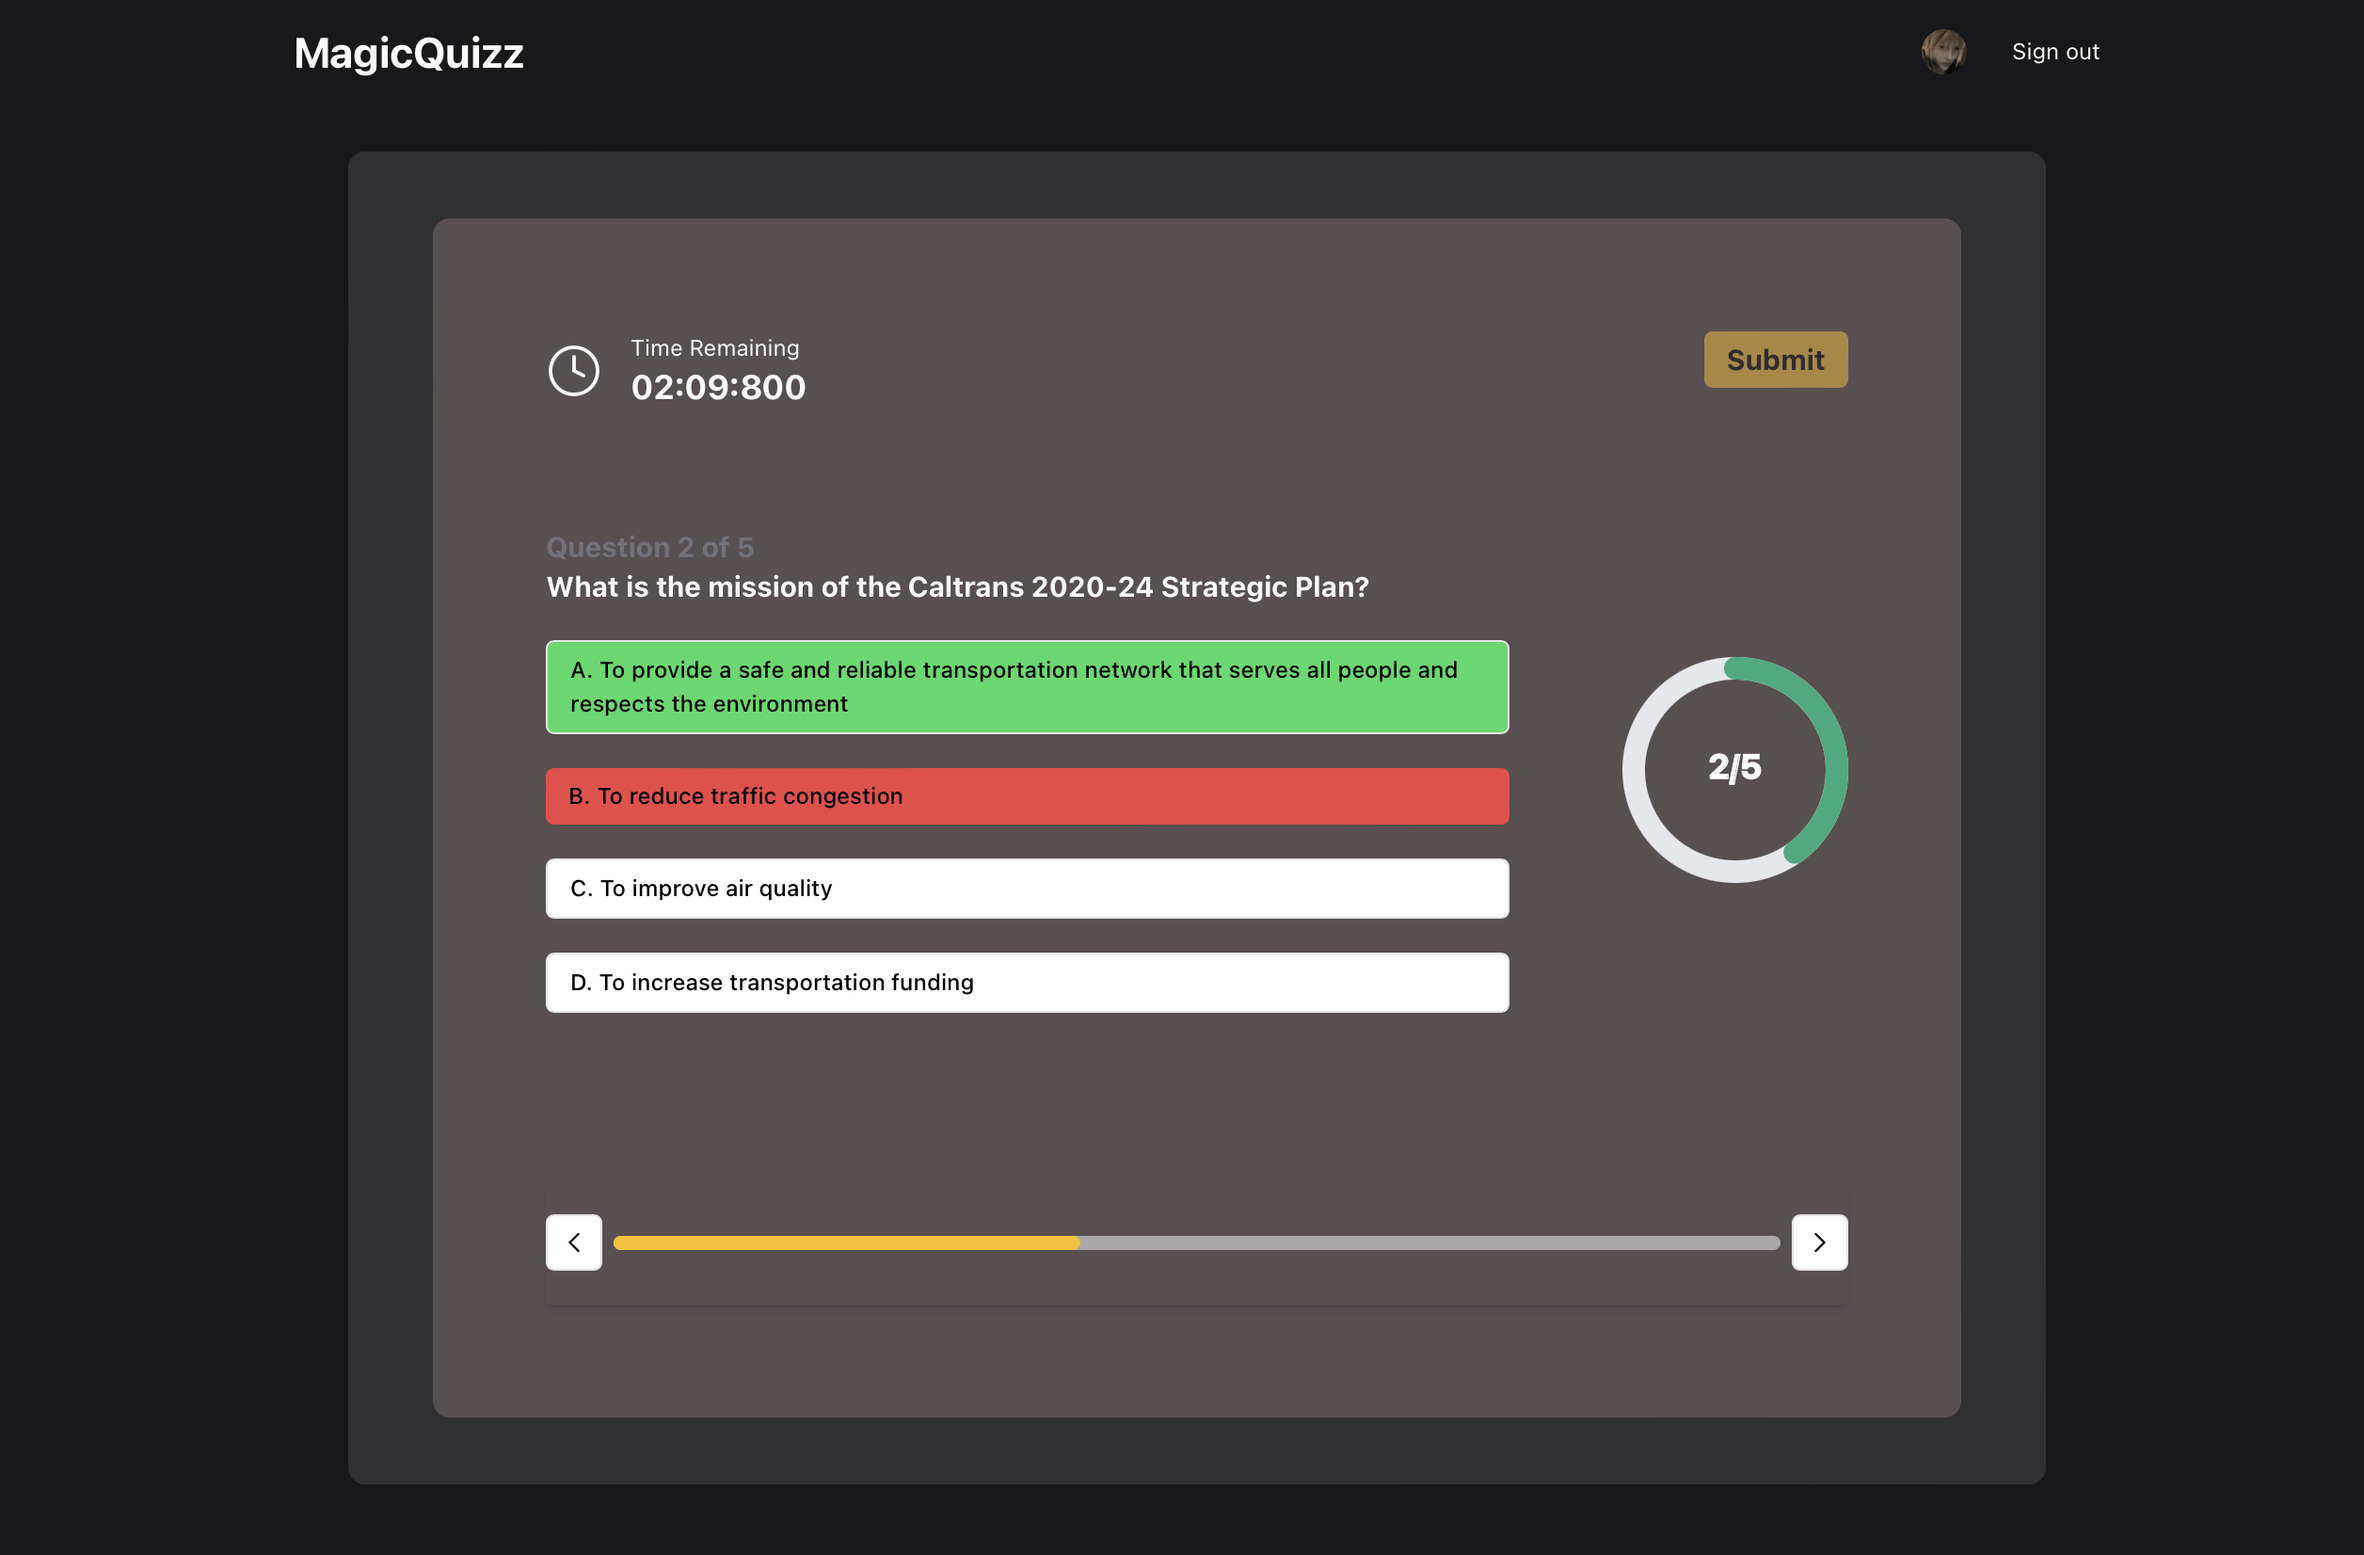
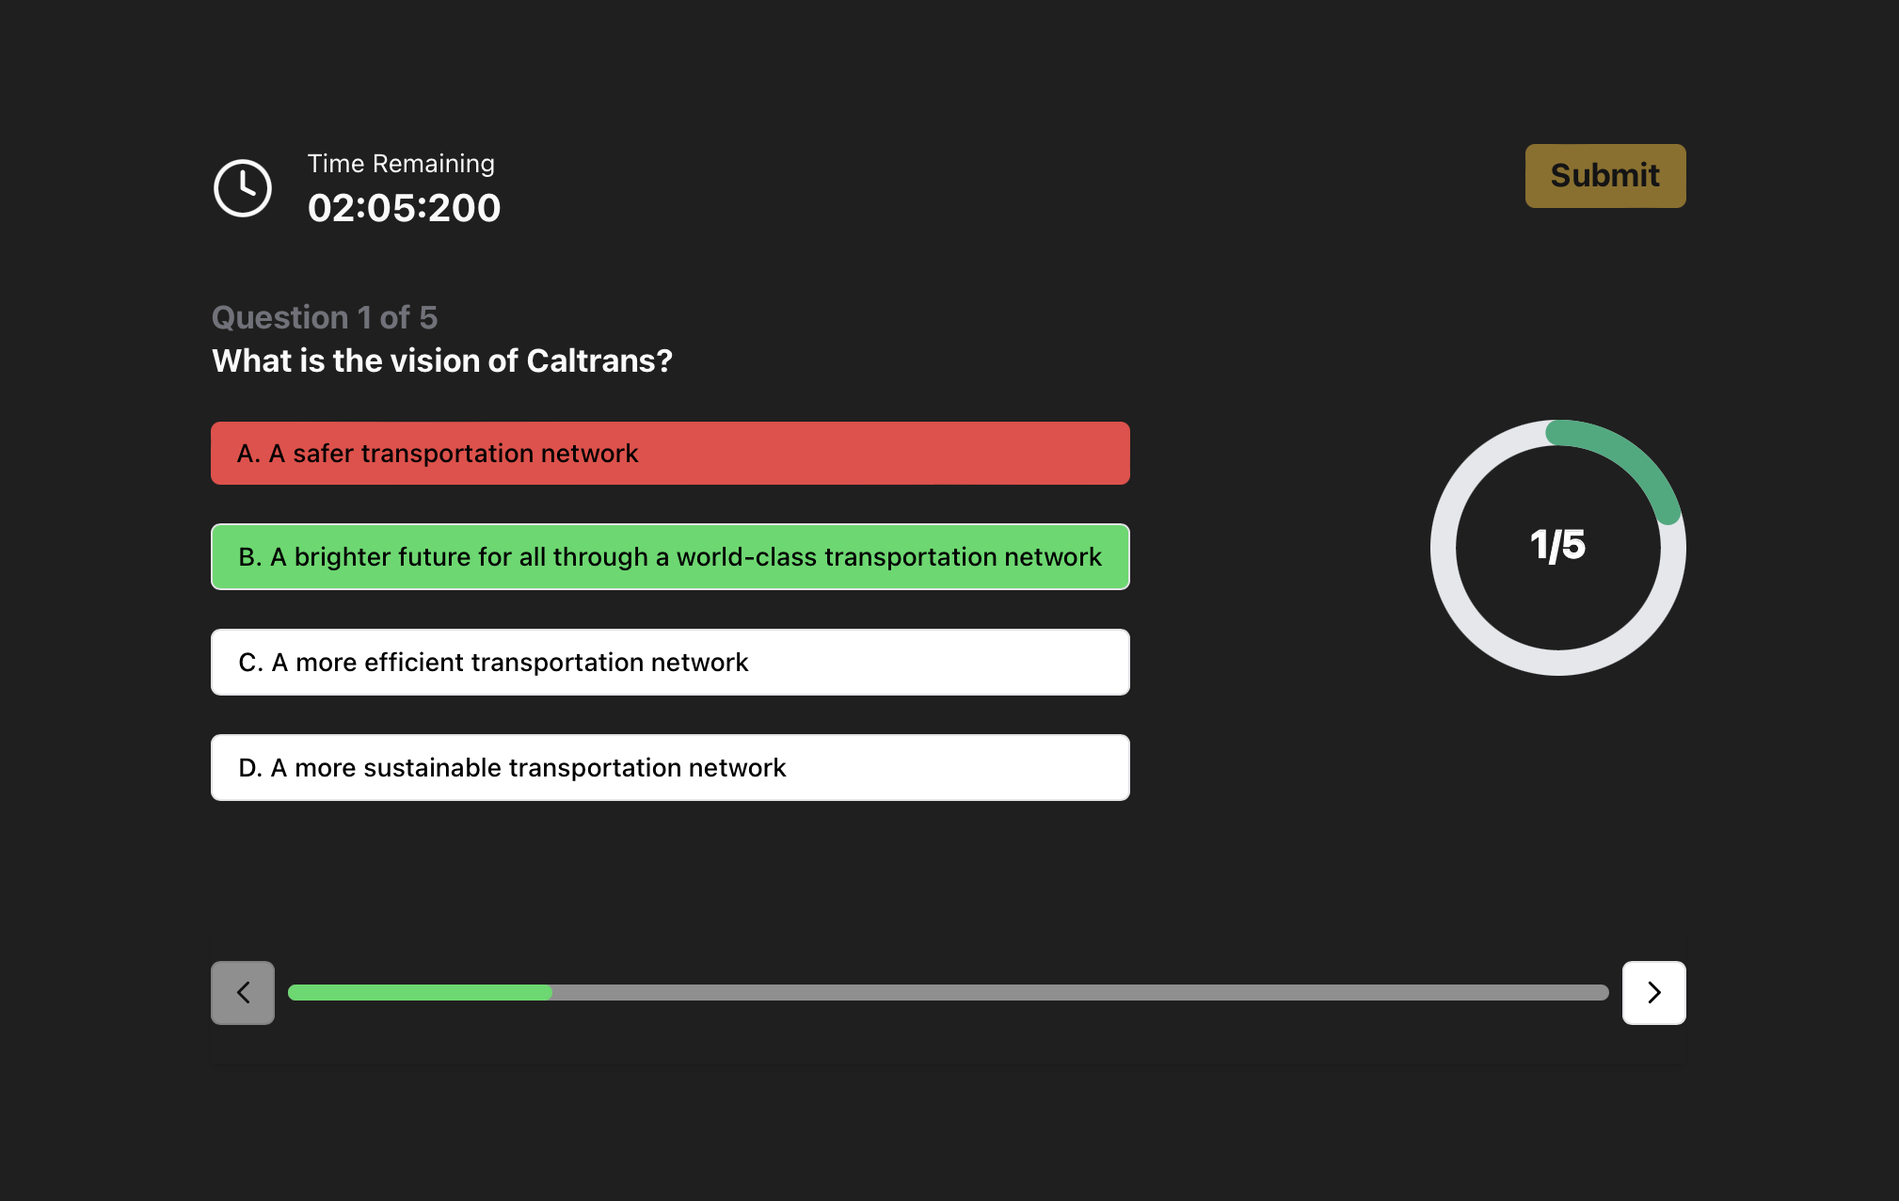
feat: Update UI

diff --git a/src/app/quizz/QuizzQuestions.tsx b/src/app/quizz/QuizzQuestions.tsx
@@ -14,6 +14,7 @@ import { saveSubmission } from "@/actions/saveSubmissions";
 import { useRouter } from "next/navigation";
 import { cn } from "@/lib/utils";
 import CircularProgressBar from "@/components/CircularProgressBar";
+import ComponentSpinner from "@/components/ComponentSpinner";
 
 const questionIndex = ["A.", "B.", "C.", "D."];
 
@@ -37,6 +38,7 @@ export default function QuizzQuestions(props: Props) {
   const [remainingTime, setRemainingTime] = useState(
     questions.length * 30 * 1000
   );
+  const [isSubmitting, setIsSubmitting] = useState<boolean>(false);
   const router = useRouter();
 
   // Convert remaining time to hh:mm:ss format
@@ -110,11 +112,12 @@ export default function QuizzQuestions(props: Props) {
 
   const handleSubmit = async () => {
     try {
-      const subId = await saveSubmission({ score }, props.quizz.id);
+      setIsSubmitting(true);
+      await saveSubmission({ score }, props.quizz.id);
     } catch (e) {
       console.log(e);
     }
-
+    setIsSubmitting(false);
     setSubmitted(true);
   };
 
@@ -138,9 +141,9 @@ export default function QuizzQuestions(props: Props) {
   }
 
   return (
-    <div className="flex flex-col bg-white/10 rounded-xl h-[90%] w-[90%] m-auto">
-      <div className="w-[90%] h-[90%] p-20 m-auto rounded-xl bg-red-200/20 flex flex-col justify-center">
-        <div className="flex justify-between">
+    <div className="flex flex-col bg-transparent/40 rounded-xl w-full m-auto">
+      <div className="w-[90%] h-[90%] p-20 m-auto rounded-xl flex flex-col gap-4 justify-center">
+        <div className="flex flex-col-reverse sm:flex-row justify-between gap-2">
           <div className="flex items-center gap-5">
             <Clock
               height={40}
@@ -151,16 +154,18 @@ export default function QuizzQuestions(props: Props) {
               <p className="text-2xl font-bold">{formattedTime}</p>
             </div>
           </div>
-          <Button
-            variant="secondary"
-            onClick={handleSubmit}
-            disabled={!quizzCompletedCheck}
-            className="font-bold text-xl"
-          >
-            Submit
-          </Button>
+          {started && (
+            <Button
+              variant="secondary"
+              onClick={handleSubmit}
+              disabled={isSubmitting || !quizzCompletedCheck}
+              className="font-bold text-xl"
+            >
+              {isSubmitting ? <ComponentSpinner /> : "Submit"}
+            </Button>
+          )}
         </div>
-        <main className="flex justify-center items-center flex-1 py-10">
+        <main className="flex justify-center items-center flex-1 py-5">
           {!started && (
             <div className="text-center">
               <h1 className="text-2xl font-bold mb-2">{name}</h1>
@@ -224,7 +229,7 @@ export default function QuizzQuestions(props: Props) {
             </div>
           )}
         </main>
-        <div className="footer pb-9 px-6 relative mb-0">
+        <div className="footer pb-4 relative">
           {!started && (
             <div className="w-full flex justify-center">
               <Button

diff --git a/src/components/containers/HomeContainer/components/Guide.tsx b/src/components/containers/HomeContainer/components/Guide.tsx
@@ -1,16 +1,30 @@
 import { Separator } from "@/components/ui/separator";
+import Image from "next/image";
 import React from "react";
 
 type IStepComponentProps = {
   stepCount: number;
   title: string;
   desc: string;
+  img: string;
 };
-const StepComponent = ({ stepCount, title, desc }: IStepComponentProps) => {
+const StepComponent = ({
+  stepCount,
+  title,
+  desc,
+  img,
+}: IStepComponentProps) => {
   return (
     <div className="text-left">
       <Separator />
       <p className="font-bold pt-2">Step {stepCount}</p>
+      <div className="relative h-[300px] border-2 border-white rounded-md my-4">
+        <Image
+          src={img}
+          alt="demo image"
+          fill
+        />
+      </div>
       <p className="text-secondary font-bold text-xl py-2">{title}</p>
       <p className="text-sm">{desc}</p>
     </div>
@@ -22,16 +36,19 @@ const guideSteps = [
     id: 1,
     title: "Sign up for an account",
     desc: "It's only take a few clicks to get started.",
+    img: "/images/app/step1Demo.png",
   },
   {
     id: 2,
     title: "Upload your PDF file",
     desc: "We will generate quizz based on your uploaded file.",
+    img: "/images/app/step2Demo.png",
   },
   {
     id: 3,
     title: "Start quizzing",
     desc: "It's that simple. Start quizzing now!",
+    img: "/images/app/step3Demo.png",
   },
 ];
 
@@ -51,6 +68,7 @@ const Guide = () => {
               stepCount={step.id}
               title={step.title}
               desc={step.desc}
+              img={step.img}
             />
           );
         })}

diff --git a/src/app/quizz/QuizzSubmission.tsx b/src/app/quizz/QuizzSubmission.tsx
@@ -2,7 +2,6 @@ import { useEffect } from "react";
 import Bar from "@/components/Bar";
 import Image from "next/image";
 import { useReward } from "react-rewards";
-import { X } from "lucide-react";
 import { useRouter } from "next/navigation";
 import { Button } from "@/components/ui/button";
 import Link from "next/link";
@@ -24,23 +23,8 @@ const QuizzSubmission = (props: Props) => {
     }
   }, [scorePercentage, reward]);
 
-  const onHandleBack = () => {
-    router.back();
-  };
-
   return (
     <div className="flex flex-col flex-1">
-      <div className="position-sticky top-0 z-10 shadow-md py-4 w-full">
-        <header className="flex items-center justify-end py-2 gap-2">
-          <Button
-            onClick={onHandleBack}
-            size="icon"
-            variant="outline"
-          >
-            <X color="black" />
-          </Button>
-        </header>
-      </div>
       <main className="py-11 flex flex-col gap-4 items-center flex-1 mt-24">
         <h2 className="text-3xl font-bold">Quizz Complete!</h2>
         <p>You scored: {scorePercentage}%</p>

diff --git a/src/components/Logo.tsx b/src/components/Logo.tsx
@@ -1,22 +1,13 @@
-import { PiggyBank } from "lucide-react";
 import React from "react";
 
 function Logo() {
   return (
-    <a href="/" className="flex items-center gap-2">
-      <PiggyBank className="stroke h-11 w-11 stroke-amber-500 stroke-[1.5]" />
+    <a
+      href="/"
+      className="flex items-center gap-2"
+    >
       <p className="bg-gradient-to-r from-amber-400 to-orange-500 bg-clip-text text-3xl font-bold leading-tight tracking-tighter text-transparent">
-        BudgetTracker
-      </p>
-    </a>
-  );
-}
-
-export function LogoMobile() {
-  return (
-    <a href="/" className="flex items-center gap-2">
-      <p className="bg-gradient-to-r from-amber-400 to-orange-500 bg-clip-text text-3xl font-bold leading-tight tracking-tighter text-transparent">
-        BudgetTracker
+        MagicalQuizz
       </p>
     </a>
   );

diff --git a/src/components/CircularProgressBar.tsx b/src/components/CircularProgressBar.tsx
@@ -1,3 +1,4 @@
+import { cn } from "@/lib/utils";
 import { FC } from "react";
 
 interface Props {
@@ -51,7 +52,9 @@ const CircularProgressBar: FC<Props> = ({
           x={textX}
           y={textY}
           textAnchor="middle"
-          className="text-2xl font-bold text-red-400 stroke-white fill-white"
+          className={cn("text-2xl font-bold stroke-white fill-white", {
+            "stroke-leaf-bold fill-leaf-bold": percentage === 100,
+          })}
         >
           {text}
         </text>

diff --git a/src/app/(auth)/layout.tsx b/src/app/(auth)/layout.tsx
@@ -3,9 +3,9 @@ import React, { ReactNode } from "react";
 
 function layout({ children }: { children: ReactNode }) {
   return (
-    <div className="relative flex h-screen w-full flex-col items-center justify-center">
+    <div className="relative flex w-full h-[calc(100vh-3rem)] flex-col items-center justify-center">
       <Logo />
-      <div className="mt-12">{children}</div>
+      <div className="mt-5">{children}</div>
     </div>
   );
 }

diff --git a/src/components/containers/HomeContainer/index.tsx b/src/components/containers/HomeContainer/index.tsx
@@ -6,7 +6,7 @@ const HomeContainer = async () => {
   return (
     <div className="flex flex-col">
       <main className="flex justify-center">
-        <div className="items-center flex flex-col gap-20 justify-end mx-auto p-10 w-full sm:py-20 sm:w-[1000px]">
+        <div className="items-center flex flex-col gap-10 justify-end mx-auto p-10 w-full sm:py-20 sm:w-[1000px]">
           <Hero />
           <PreviewImage />
           <Guide />

diff --git a/src/components/progressBar.tsx b/src/components/progressBar.tsx
@@ -8,7 +8,7 @@ const ProgressBar = (props: Props) => {
   return (
     <div className="w-full bg-white/50 rounded-full h-2.5">
       <div
-        className="h-2.5 rounded-md bg-secondary transition-all"
+        className="h-2.5 rounded-md bg-leaf transition-all"
         style={{
           width: `${props.value}%`,
         }}

diff --git a/src/app/globals.css b/src/app/globals.css
@@ -10,7 +10,7 @@
     --card-foreground: 240 10% 3.9%;
     --popover: 0 0% 100%;
     --popover-foreground: 240 10% 3.9%;
-    --primary: 240 5.9% 10%;
+    --primary: 0, 0%, 20%;
     --primary-foreground: 0 0% 98%;
     --secondary: 45 99% 50%;
     --secondary-foreground: 240 10% 3.9%;

diff --git a/src/components/containers/HomeContainer/components/PreviewImage.tsx b/src/components/containers/HomeContainer/components/PreviewImage.tsx
@@ -2,7 +2,7 @@ import Image from "next/image";
 
 const PreviewImage = () => {
   return (
-    <section className="w-full h-[600px] shadow-custom">
+    <section className="w-full shadow-custom">
       <Image
         src="/images/app/previewImage.png"
         alt="Preview"
